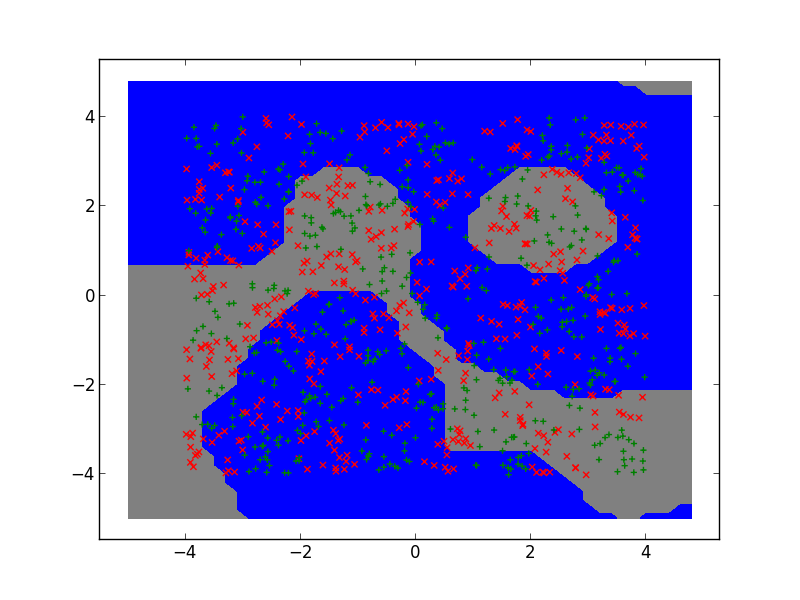
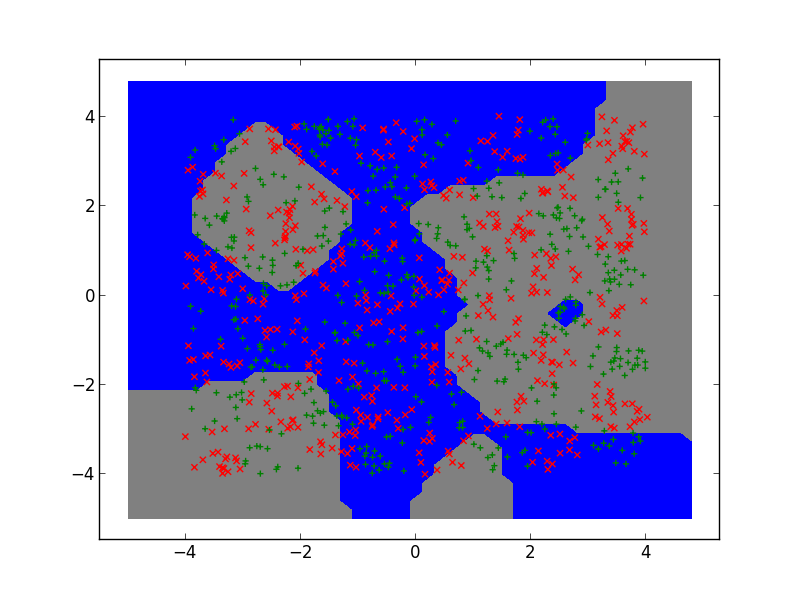
ARF Rapport

diff --git a/ARF/TME05/ARF-TME5.py b/ARF/TME05/ARF-TME5.py
@@ -138,7 +138,7 @@ print perc.score(testXGau,testY)
 exit()
 ''' 
 
-for t in [1,2,3,5]:
+for t in [5]:
     trainX,trainY = gen_arti(data_type=t)
     testX ,testY  = gen_arti(data_type=t)
     '''
@@ -165,13 +165,15 @@ for t in [1,2,3,5]:
     print fname
     plot(testX,testY,lambda x: oldPerc.predict(np.array([projection(x)])),50,fname)
     '''
-    interv = np.arange(0.1,2.6,0.3)
+    interv = np.arange(0.1,1.6,0.5)
     for var in interv:
         trainXGau = phiGaussien(trainX,trainX,var)
         testXGau  = phiGaussien(testX,trainX,var)
         perc = Perceptron()
         perc.fit(trainXGau,trainY)
-        print "hing loss score: ",perc.score(testXGau,testY)
+        fname="./hingeLoss/phiGaussien[var=%d][dataType=%d]"%(var*10,t)
+        plot(testX,testY,lambda x: perc.predict(np.array([phiGaussien(x,trainX,var)])),50,fname)
+        print "hinge loss score: ",perc.score(testXGau,testY)
         w = perc.x
         perc = PerceptronPlugin()
         perc.x = w
